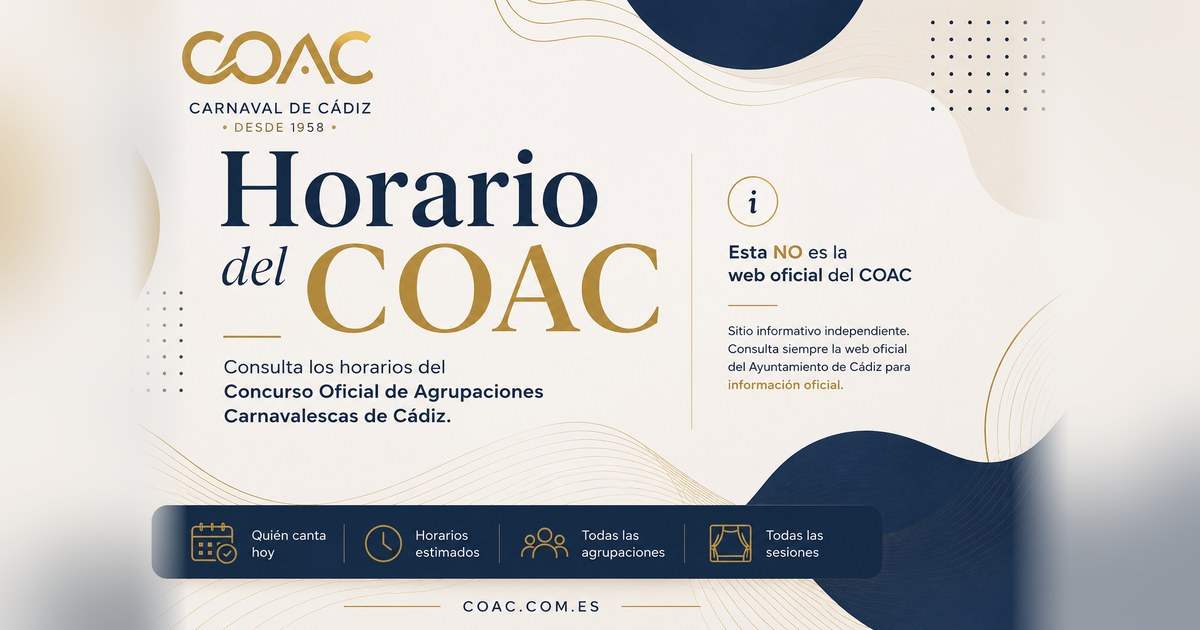
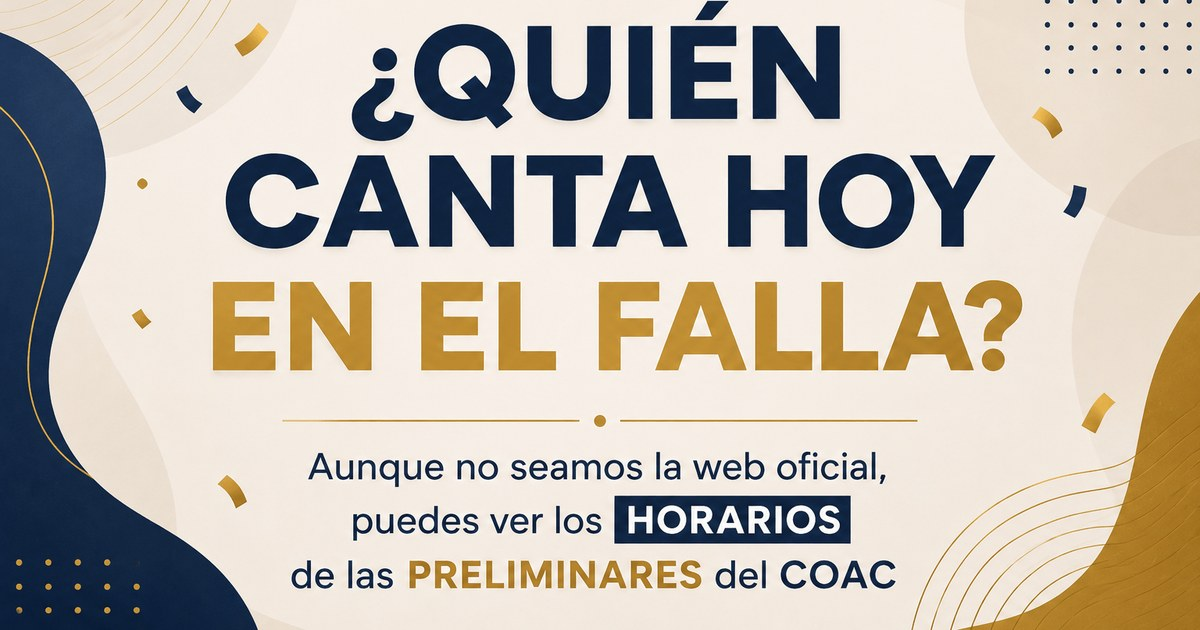
feat(seo): use the final share image
The card «¿Quién canta hoy en el Falla?», cropped to 1200 × 630 around the
text (no padding needed) at 115 kB. Keep its 1536 × 1024 source in
src/assets so it can be redone when the phase it names changes, and describe
it in the alt text.

diff --git a/vite-plugin-seo.ts b/vite-plugin-seo.ts
@@ -238,10 +238,13 @@ const UNOFFICIAL_NOTICE =
   "Web no oficial, hecha por un aficionado. No tiene relación con el Ayuntamiento de Cádiz ni con la organización del COAC.";
 
 // Imagen para compartir: JPEG de 1200 × 630 (1,91:1, lo que recortan Facebook y X)
-// y menos de 300 kB, que WhatsApp no siempre enseña imágenes más pesadas.
+// y menos de 300 kB, que WhatsApp no siempre enseña imágenes más pesadas. Sale de
+// src/assets/cardseo-optima.png (1536 × 1024): filas 114–920, reducida a 1200 × 630,
+// JPEG calidad 88. Nombra la fase («preliminares»): al cambiar de fase hay que
+// rehacerla y cambiar este texto.
 const OG_IMAGE = `${SITE.url}og-image.jpg`;
 const OG_IMAGE_ALT =
-  "Cartel «Horario del COAC», Carnaval de Cádiz, con el aviso «Esta no es la web oficial del COAC» y los apartados quién canta hoy, horarios estimados, todas las agrupaciones y todas las sesiones. coac.com.es.";
+  "Cartel con el título «¿Quién canta hoy en el Falla?» y el texto «Aunque no seamos la web oficial, puedes ver los horarios de las preliminares del COAC».";
 
 function buildHeadTags(): string {
   const title = escapeHtml(pageTitle());

diff --git a/AGENTS.md b/AGENTS.md
@@ -206,7 +206,7 @@ agrupaciones **en orden de actuación**.
   es la página de error, estática y sin bundle.
 - `tests/` — Playwright (capturas y comportamiento con reloj simulado) contra
   un build en modo `e2e` que sustituye el JSON por `tests/fixtures/`.
-- `public/` — favicon, iconos, `og-image.jpg` (1200 × 630, < 300 kB por WhatsApp), `robots.txt`, manifest.
+- `public/` — favicon, iconos, `og-image.jpg` (1200 × 630, < 300 kB por WhatsApp; nombra la fase, así que se rehace desde `src/assets/cardseo-optima.png` al cambiar de fase), `robots.txt`, manifest.
 
 ## Decisiones vigentes
 

diff --git a/README.md b/README.md
@@ -1,7 +1,7 @@
 <div align="center">
 
 <a href="https://coac.com.es/">
-  <img src="public/og-image.jpg" alt="Cartel «Horario del COAC»: quién canta hoy, horarios estimados, agrupaciones y sesiones. Web no oficial." width="100%">
+  <img src="public/og-image.jpg" alt="¿Quién canta hoy en el Falla? Aunque no seamos la web oficial, puedes ver los horarios de las preliminares del COAC." width="100%">
 </a>
 
 [![CI](https://github.com/nandovejer/coac/actions/workflows/ci.yml/badge.svg)](https://github.com/nandovejer/coac/actions/workflows/ci.yml)
